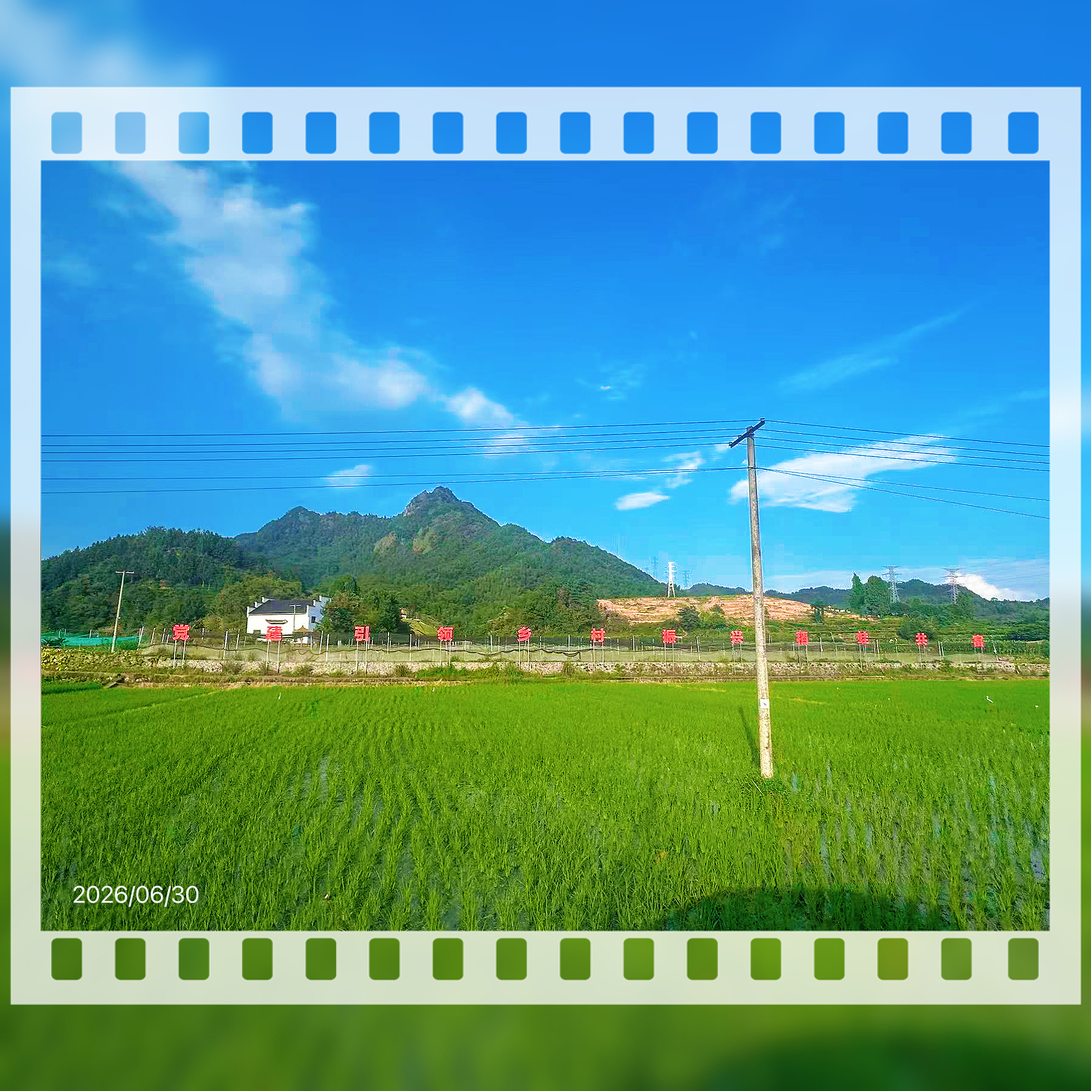
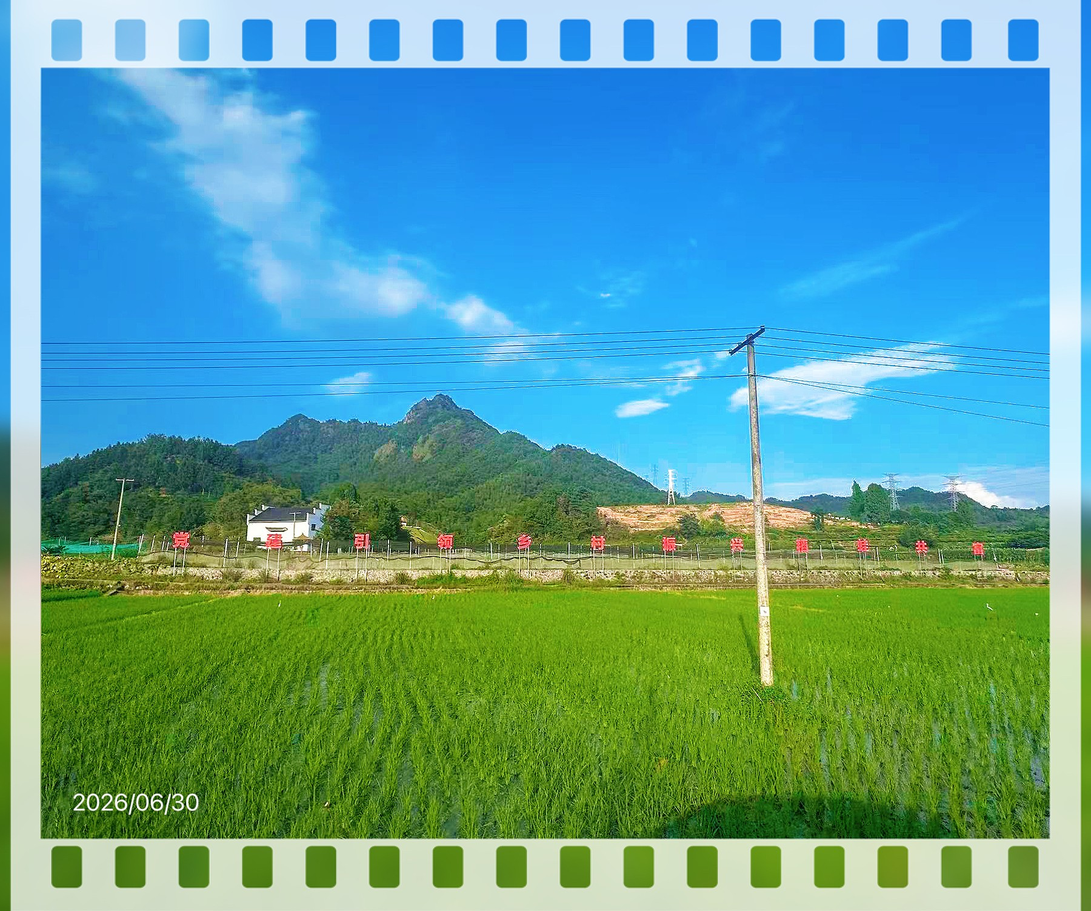
Major improvements

diff --git a/match.html b/match.html
@@ -24,6 +24,9 @@
     body { margin: 0; background: var(--paper); color: var(--ink); }
     button, input, select { font: inherit; }
     .page { width: min(1120px, calc(100% - 40px)); margin: 0 auto; padding: 42px 0 64px; }
+    .brand-row { display: flex; min-height: 48px; align-items: center; margin-bottom: 24px; border-bottom: 1px solid var(--line); }
+    .brand { color: var(--accent-dark); font-size: 18px; font-weight: 700; text-decoration: none; }
+    .brand:focus-visible { outline: 3px solid #98c9a9; outline-offset: 2px; }
     header { display: flex; align-items: end; justify-content: space-between; gap: 24px; margin-bottom: 26px; }
     .header-meta { display: flex; flex-direction: column; align-items: flex-end; gap: 8px; }
     .language-switch { display: flex; gap: 2px; padding: 3px; background: var(--surface); border: 1px solid var(--line); border-radius: 4px; }
@@ -91,6 +94,7 @@
 </head>
 <body>
   <div class="page">
+    <div class="brand-row"><a class="brand" href="index.html" data-i18n="projectTitle">Chun'an Information Gap Project</a></div>
     <header>
       <div>
         <p class="eyebrow" data-i18n="eyebrow">淳安 · 本地农产品</p>
@@ -187,7 +191,7 @@
       zh: {
         pageTitle: '淳安农产品匹配', languageLabel: '语言', productCount: count => `共 ${count} 款产品`,
         static: {
-          eyebrow: '淳安 · 本地农产品', pageHeading: '找到适合你的产品', loading: '正在读取产品数据…',
+          projectTitle: '淳安信息差项目', eyebrow: '淳安 · 本地农产品', pageHeading: '找到适合你的产品', loading: '正在读取产品数据…',
           formHeading: '选择购买偏好', priceLabel: '预算上限', shelfLifeLabel: '最低保质期',
           shelfLifeMin: '2 天', shelfLifeMax: '720 天', safetyQualityLabel: '最低安全质量证据',
           evidenceMin: '0 项', evidenceMax: '3 项', supplyStabilityLabel: '最低供货稳定性',
@@ -207,14 +211,14 @@
           seasonal: value => value ? '季节性供应' : '全年供应',
           supply: value => `供货稳定性${translations.zh.supplyLabels[value]}`
         },
-        buy: '购买', copied: '已复制微信小店链接，可粘贴至微信打开。',
+        buy: '打开原产品链接', copied: '已复制微信小店链接，可粘贴至微信打开。',
         copyUnavailable: '无法自动复制，请复制下方链接到微信打开：',
         wechatLinkLabel: '微信小店购买链接', noPurchase: '暂无购买链接', loadError: '产品数据暂不可用'
       },
       en: {
         pageTitle: 'Chun’an Product Match', languageLabel: 'Language', productCount: count => `${count} products`,
         static: {
-          eyebrow: 'CHUN’AN · LOCAL PRODUCE', pageHeading: 'Find products for you', loading: 'Loading products…',
+          projectTitle: "Chun'an Information Gap Project", eyebrow: 'CHUN’AN · LOCAL PRODUCE', pageHeading: 'Find products for you', loading: 'Loading products…',
           formHeading: 'Your preferences', priceLabel: 'Maximum budget', shelfLifeLabel: 'Minimum shelf life',
           shelfLifeMin: '2 days', shelfLifeMax: '720 days', safetyQualityLabel: 'Minimum safety and quality evidence',
           evidenceMin: '0 items', evidenceMax: '3 items', supplyStabilityLabel: 'Minimum supply stability',
@@ -235,7 +239,7 @@
           seasonal: value => value ? 'Seasonal supply' : 'Year-round supply',
           supply: value => `Supply stability: ${translations.en.supplyLabels[value]}`
         },
-        buy: 'Buy', copied: 'WeChat link copied. Paste it into WeChat to open.',
+        buy: 'View Original Listing', copied: 'WeChat link copied. Paste it into WeChat to open.',
         copyUnavailable: 'Copy the link below and open it in WeChat:',
         wechatLinkLabel: 'WeChat purchase link', noPurchase: 'No purchase link available',
         loadError: 'Product data is unavailable'

diff --git a/analysis.html b/analysis.html
@@ -4,7 +4,7 @@
   <meta charset="utf-8">
   <meta name="viewport" content="width=device-width, initial-scale=1">
   <meta name="theme-color" content="#f4f6f2">
-  <title>About Chun'an | Chun'an Information Gap Project</title>
+  <title>Data Analysis | Chun'an Information Gap Project</title>
   <link rel="stylesheet" href="site.css">
 </head>
 <body>
@@ -27,12 +27,45 @@
   <main class="page">
     <h1>Data Analysis</h1>
     <p class="eyebrow"><br/>From Raw Field Data to a Reproducible and Explainable Analysis</p>
-    <h2>DATA GRAPHS</h2>
-    <section class="content-card"><p>After using pandas and NumPy, I found the following results:</p></section>
-    <img src="./images/Graph A clear.png" style="width:822px; float:middle">
-    <img src="./images/Graph B clear.png" style="width:822px; float:middle">
-    <img src="./images/Graph C clear.png" style="width:822px; float:middle">
-    <img src="./images/Graph D clear.png" style="width:822px; float:middle">
+    <h2>DATA ANALYSIS PROCESS OVERVIEW</h2>
+    <img src="./images/Analysis Steps.png" style="width:822px; float:middle">
+    <h2>DATA ENGINEERING</h2>
+    <section class="content-card">
+      <ul>
+        <li>pandas imported both Excel sources and created raw, clean, and coded tables.</li>
+        <li>Automated checks flagged ineligible cases, rapid completion, duplicate IPs/response patterns, missing values, and straight-lining.</li>
+        <li>Multi-select items were converted to 0/1 variables; Likert scale responses retained ordered 1–5 coding.</li>
+      </ul>
+    </section>
+    <h2>STATISTICAL ANALYSIS</h2>
+    <section class="content-card">
+      <ul>
+        <li>Descriptive outputs: means, standard deviations, Top-2-box rates, Top-3 selection rates, and multi-response percentages.</li>
+        <li>Spearman correlations tested relationships among online-shopping frequency, purchase intention, explanation-based trust, and tool-use intention.</li>
+        <li>Mann–Whitney or Kruskal–Wallis tests compared relevant consumer groups without assuming normality.</li>
+      </ul>
+    </section>
+    <h2>GAP & VISUAL ANALYTICS</h2>
+    <section class="content-card">
+      <ul>
+        <li>NumPy normalized mean importance to a 0–1 scale: (mean − 1) / 4.</li>
+        <li>Attribute Gap = normalized consumer importance − product-information coverage.</li>
+        <li>seaborn and Plotly produced ranked bars, heatmaps, group comparisons, and interactive figures.</li>
+      </ul>
+    </section>
+    <h2>EXPLAINABLE MATCHING</h2>
+    <section class="content-card">
+      <ul>
+        <li>Consumer preferences and product features were encoded as comparable vectors.</li>
+        <li>Budget/category filters were applied before weighted scoring and cosine similarity ranked top 3 products.</li>
+        <li>The system reports the highest-contributing attributes as human-readable recommendation reasons.</li>
+      </ul>
+    </section>
+    <h2>FINAL DATA GRAPHS</h2>
+    <img src="./images/Graph A.png" style="width:822px; float:middle">
+    <img src="./images/Graph B.png" style="width:822px; float:middle">
+    <img src="./images/Graph C.png" style="width:822px; float:middle">
+    <img src="./images/Graph D.png" style="width:822px; float:middle">
     <h2>KEY FINDING OF THE DATA ANALYSIS</h2>
     <section class="content-card"><p>The central problem is an evidence gap, not a lack of interest. Consumers prioritize safety, quality, trust, traceability, and certification, yet these attributes are least consistently documented.</p></section>
 </body>

diff --git a/findings.html b/findings.html
@@ -4,7 +4,7 @@
   <meta charset="utf-8">
   <meta name="viewport" content="width=device-width, initial-scale=1">
   <meta name="theme-color" content="#f4f6f2">
-  <title>Contact | Chun'an Information Gap Project</title>
+  <title>Findings | Chun'an Information Gap Project</title>
   <link rel="stylesheet" href="site.css">
 </head>
 <body>
@@ -24,8 +24,31 @@
   </header>
   <main class="page">
     <h1>Findings</h1>
-    <p class="eyebrow"><br/>What Could Data-Driven Matching Contribute—and What Can It Not Solve?<br/></p>
-    <img src="./images/Findings.png" style="width:1125px; float:middle">
+    <p class="eyebrow"><br/>What Could Data-Driven Matching Contribute, and What Can It Not Solve?<br/></p>
+    <h2>POTENTIAL CONTRIBUTIONS</h2>
+    <section class="content-card">
+      <ul>
+        <li>Consumer discovery: Preference-based ranking can reduce search and comparison costs.</li>
+        <li>Information priorities: Gap scores show which product fields should be improved first.</li>
+        <li>Trust support: Certification, traceability, testing evidence, and explanations can provide clearer decision signals.</li>
+      </ul></section>
+    <h2>CHALLENGES, RISKS & SAFEGUARDS</h2>
+    <section class="content-card">
+      <ul>
+        <li>Incomplete data: Products with less documentation may be ranked too low even when their underlying quality is strong.</li>
+        <li>Popularity concentration: Recommendation systems may repeatedly favor already visible or information-rich products.</li>
+        <li>Digital participation: Producers and consumers with lower digital access may benefit less.</li>
+      </ul></section>
+    <h2>LIMITATIONS</h2>
+    <section class="content-card">
+      <ul>
+        <li>Sampling: The 300 respondents were not selected through probability sampling and may not represent all Hangzhou consumers.</li>
+        <li>Stated intentions: Willingness to buy or use a tool does not equal actual purchasing behavior.</li>
+        <li>Product coverage: 30 products cannot represent all producers, categories, or sales channels in Chun’an.</li>
+      </ul></section>
+    <h2>FINAL CONCLUSION</h2>
+    <section class="content-card">
+      <p>Data can make rural products easier to understand and match, but inclusive market access still depends on trustworthy evidence, logistics, product quality, producer participation, and accountable system design.</p>
   </main>
 </body>
 </html>

diff --git a/design.html b/design.html
@@ -4,7 +4,7 @@
   <meta charset="utf-8">
   <meta name="viewport" content="width=device-width, initial-scale=1">
   <meta name="theme-color" content="#f4f6f2">
-  <title>How It Works | Chun'an Information Gap Project</title>
+  <title>Research Design | Chun'an Information Gap Project</title>
   <link rel="stylesheet" href="site.css">
 </head>
 <body>
@@ -27,7 +27,7 @@
     <p class="eyebrow"><br/>From Observation to a Testable County-Level Question</p>
     <h2>MAIN RESEARCH QUESTION</h2>
     <section class="content-card">
-      <p>How can consumer data and product information be used to identify—and potentially reduce—market-access gaps for rural products in Chun'an County?</p>
+      <p>How can consumer data and product information be used to identify (and potentially reduce) market-access gaps for rural products in Chun'an County?</p>
     </section>
     <h2>THREE QUESTIONS TO INVESTIGATE</h2>
     <section class="content-card">
@@ -39,7 +39,7 @@
     <section class="content-card">
       <p><b>Market Barriers</b>: Multiple barriers constrain consumers' access to unfamiliar Chun'an products.</p><br/>
       <p><b>Demand–Information Gap</b>: The attributes most valued by consumers may not be fully reflected in the information currently available for Chun'an products.</p><br/>
-      <p><b>Explanable Matching</b>: Clear product information and explainable recommendations are expected to be associated with stronger purchase and system-use intentions.</p>
+      <p><b>Explainable Matching</b>: Clear product information and explainable recommendations are expected to be associated with stronger purchase and system-use intentions.</p>
     </section>
   </main>
 </body>

diff --git a/data.html b/data.html
@@ -4,7 +4,7 @@
   <meta charset="utf-8">
   <meta name="viewport" content="width=device-width, initial-scale=1">
   <meta name="theme-color" content="#f4f6f2">
-  <title>Data &amp; Standards | Chun'an Information Gap Project</title>
+  <title>Data Gathering | Chun'an Information Gap Project</title>
   <link rel="stylesheet" href="site.css">
 </head>
 <body>
@@ -33,7 +33,7 @@
       <li>Price, weight, and price per 500g</li>
       <li>Branded or unbranded</li>
       <li>Shelf life</li>
-      <li>Certification, tracebility, and quality safety</li>
+      <li>Certification, traceability, and safety and quality evidence</li>
       <li>Online availability</li>
       <li>Seasonality</li>
       <li>Supply stability</li>
@@ -56,10 +56,11 @@
     <h2>DEMAND–INFORMATION GAP</h2>
     <section class="content-card"><h3>What consumers value  ↔  What product pages show</h3><p><b>The same 10 attributes are compared across the consumer survey and product database.</b><br/>Normalized gap score: Gap<sub>j</sub> = (Mean Importance<sub>j</sub> - 1) / 4 - Information Coverage<sub>j</sub><br/>Interpretation:</p>
     <ul>
-      <li>Gap<sub>j</sub> = 0 → Priority and informationare broadly aligned</li>
+      <li>Gap<sub>j</sub> = 0 → Priority and information are broadly aligned</li>
       <li>Gap<sub>j</sub> > 0 → High consumer priority and low information coverage</li>
       <li>Gap<sub>j</sub> < 0 → Information coverage exceeds relative consumer priority</li>
     </section>
+    <p>Now we can try to answer: <b>Which high-priority information gaps can be reduced through clearer data and explainable matching?</b></p>
   </main>
 </body>
 </html>

diff --git a/story.html b/story.html
@@ -4,7 +4,7 @@
   <meta charset="utf-8">
   <meta name="viewport" content="width=device-width, initial-scale=1">
   <meta name="theme-color" content="#f4f6f2">
-  <title>Products | Chun'an Information Gap Project</title>
+  <title>Research Story | Chun'an Information Gap Project</title>
   <link rel="stylesheet" href="site.css">
 </head>
 <body>
@@ -25,11 +25,11 @@
   <main class="page">
     <h1>Research Story</h1>
     <p class="eyebrow"><br/>From a Trip to a County-Level Research Question</p>
-    <h2>PERSONAL CONNECTION — WHY CHUN'AN?</h2>
+    <h2>PERSONAL CONNECTION: WHY CHUN'AN?</h2>
     <section class="content-card">
       <p>I grew up in Hangzhou. During a family trip to Qiandao Lake in Chun'an County, I became curious about how this mountainous part of Hangzhou connects with consumers in the urban center. I began to wonder why communities within the same municipality could have such different market opportunities. That question became the starting point of this research.</p>
     </section>
-    <h2>LOCAL CONTEXT — TWO SIDES OF HANGZHOU?</h2>
+    <h2>LOCAL CONTEXT: TWO SIDES OF HANGZHOU?</h2>
     <img src="./images/vs Hangzhou Table.png" style="width:822px; float:middle">
     <h2>THE SOCIAL PROBLEM</h2>
     <section class="content-card">
@@ -40,7 +40,7 @@
       <p>Distinctive rural products do not automatically translate into effective access to urban consumers.</p>
     </section>
     <h2>RESEARCH AREA</h2>
-    <img src="./images/Research Story Picture 2.png" style="width:1125px; float:middle">
+    <img src="./images/Research Story Picture.png" style="width:1125px; float:middle">
   </main>
 </body>
 </html>

diff --git a/index.html b/index.html
@@ -26,7 +26,7 @@
     <h1>Bridging the Information Gap</h1>
     <p class="eyebrow"><br/>A Data-Driven Study Matching Chun'an Products with Hangzhou Consumers</p>
     <img src="./images/Data Table.png" style="width:1125px; float:middle">
-    <p><img src="./images/Chun'an picture 2.jpg" alt="A picture of Chun'an" style="width:300px; float:right"><br/><br/><br/><br/><br/>Chun'an offers diverse local agricultural products, yet urban consumers may not receive the clear and trustworthy information they need. This project uses survey data, a structured product database, and an explainable matching prototype to explore that gap.</p>
+    <p><img src="./images/Chun'an picture.jpg" alt="A picture of Chun'an" style="width:300px; float:right"><br/><br/><br/><br/><br/>Chun'an offers diverse local agricultural products, yet urban consumers may not receive the clear and trustworthy information they need. This project uses survey data, a structured product database, and an explainable matching prototype to explore that gap.</p>
 
   </main>
 </body>

diff --git a/site.css b/site.css
@@ -22,6 +22,8 @@ a { color: inherit; }
 .main-nav a { padding: 10px 12px; border-radius: 4px; color: var(--muted); font-size: 14px; text-decoration: none; }
 .main-nav a:hover, .main-nav a:focus-visible { color: var(--accent-dark); background: var(--accent-soft); }
 .main-nav a[aria-current="page"] { color: var(--accent-dark); background: var(--accent-soft); font-weight: 700; }
+.main-nav a[href="match.html"] { color: #fff; background: var(--accent); font-weight: 700; }
+.main-nav a[href="match.html"]:hover { background: var(--accent-dark); }
 .main-nav a:focus-visible, .brand:focus-visible { outline: 3px solid #98c9a9; outline-offset: 2px; }
 .page { width: min(1120px, calc(100% - 40px)); min-height: calc(100vh - 150px); margin: 0 auto; padding: 58px 0 80px; }
 .eyebrow { margin: 0 0 10px; color: var(--accent); font-size: 13px; font-weight: 700; letter-spacing: .06em; text-transform: uppercase; }
